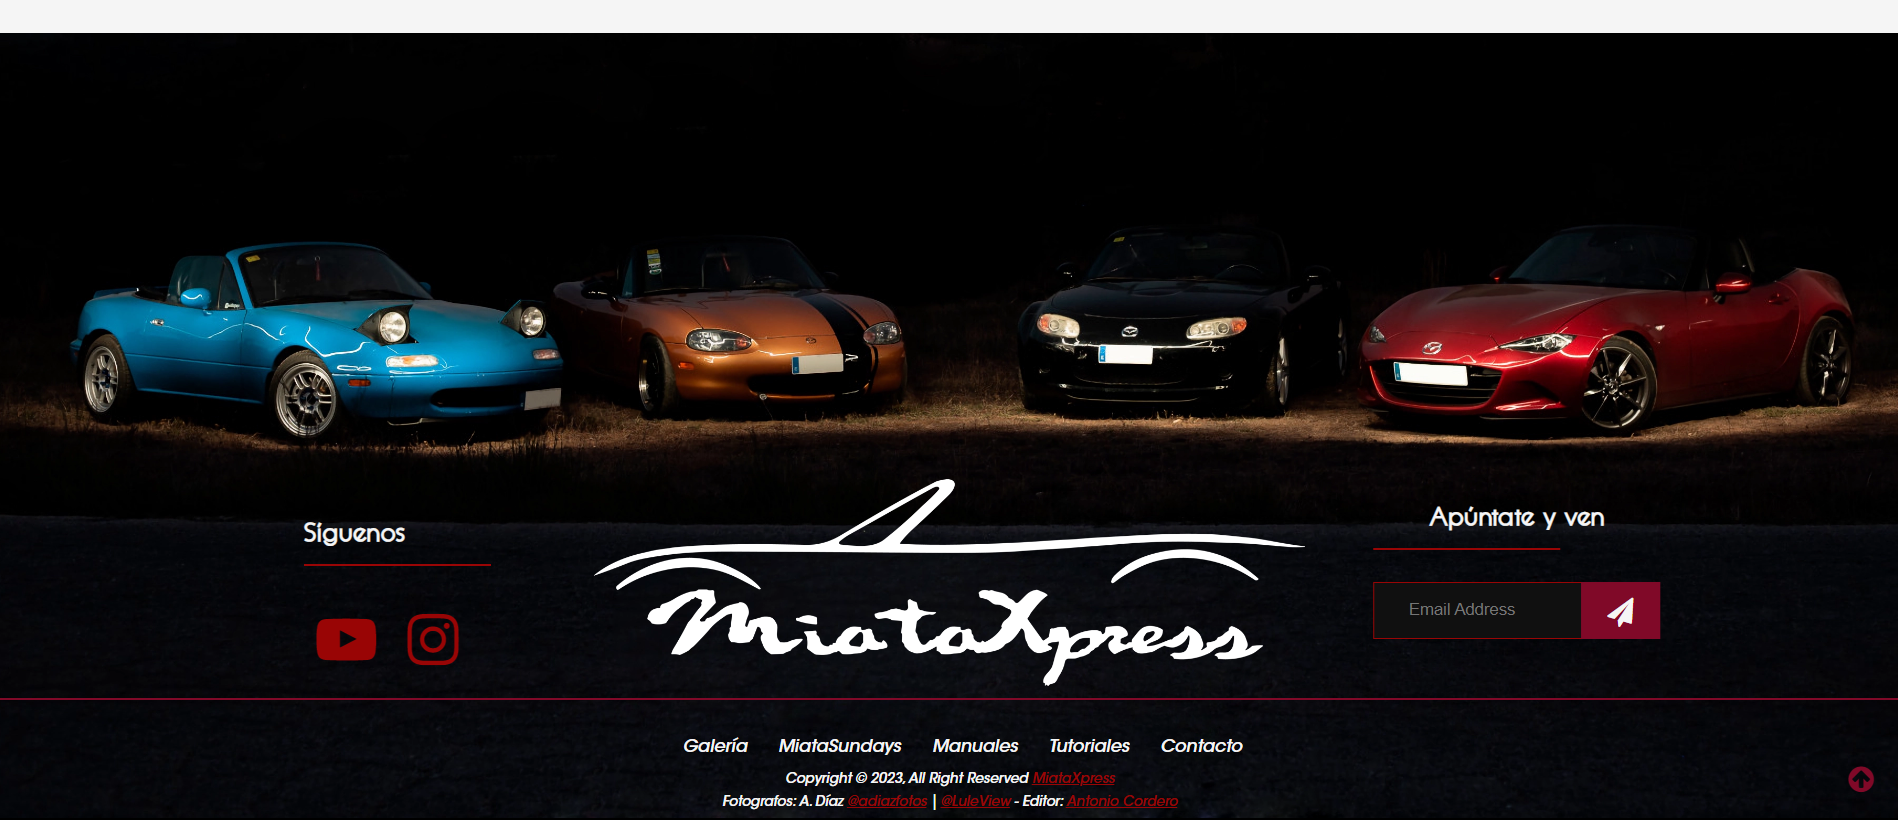
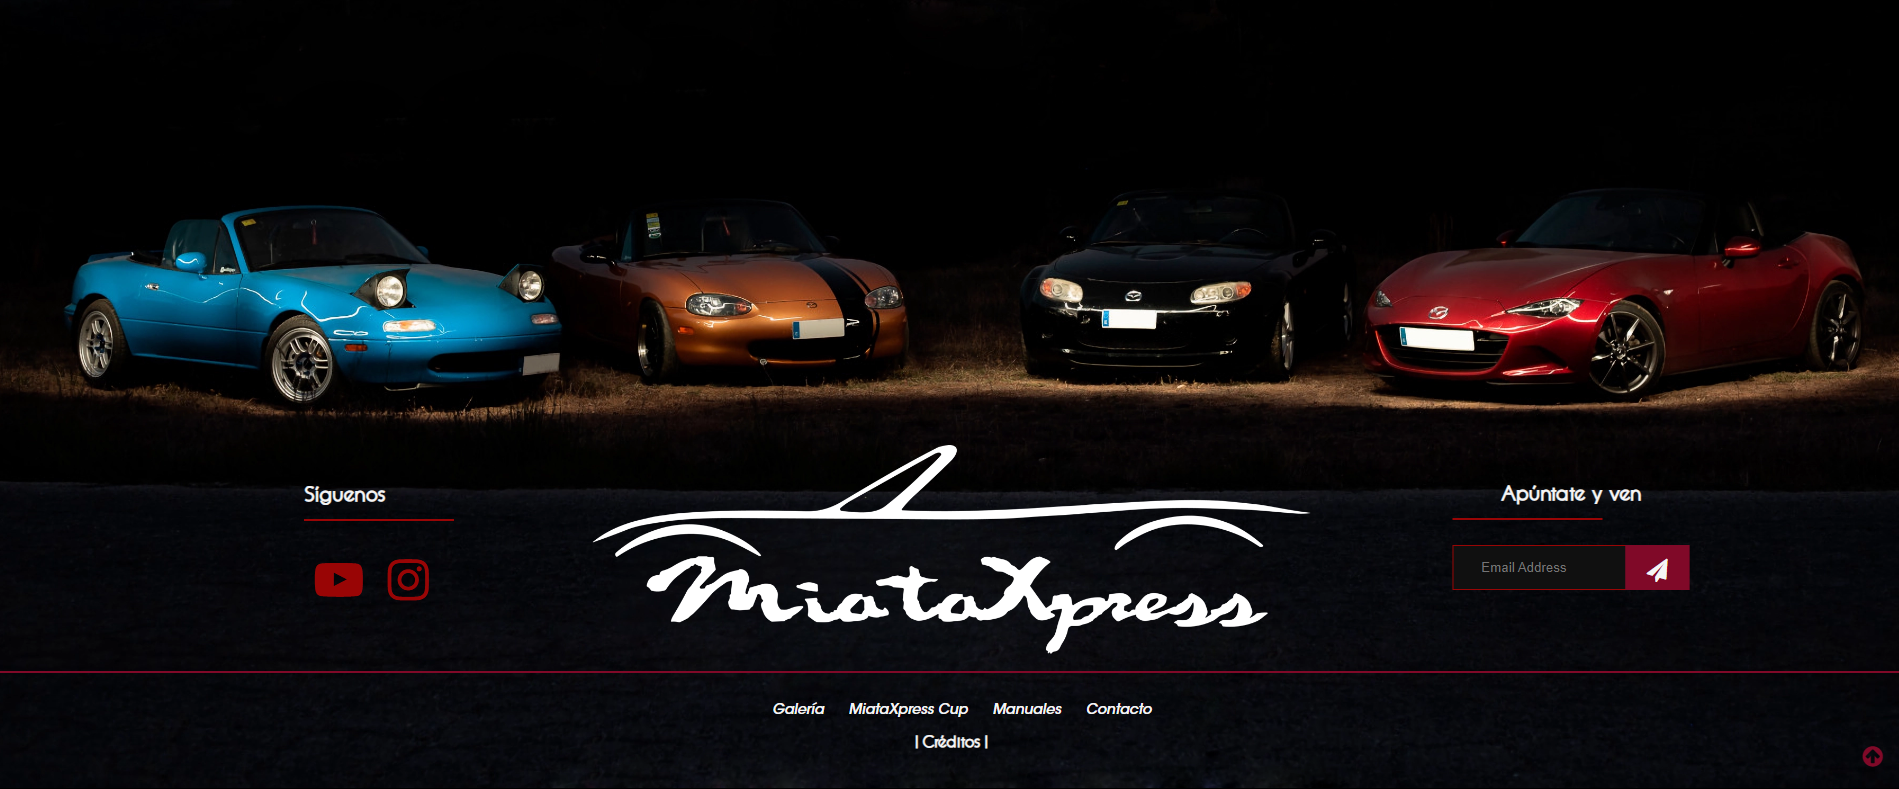
Minor bugs fixed - FINISHED 15/12/23

diff --git a/css/miataxpress.css b/css/miataxpress.css
@@ -489,7 +489,8 @@ transition: background-color 0.6s ease;
 
 #cup .container {
     position: relative;
-    width: 100%; 
+    width: 100%;
+    margin-left: 0%; 
 }
 
 #cup .image {
@@ -583,6 +584,7 @@ transition: background-color 0.6s ease;
 #guides .container {
     position: relative;
     width: 100%; 
+    margin-left: 0%;
 }
 
 #guides .image {
@@ -591,7 +593,7 @@ transition: background-color 0.6s ease;
     margin: auto;
 }
   
-.middle {
+.middle-guides {
     position: absolute;
     top: 0;
     bottom: 0;
@@ -944,8 +946,6 @@ transition: background-color 0.6s ease;
     cursor:pointer;
     color: #f5f5f5;
     font-family: titles;
-    border-left: 2px solid #f5f5f5;
-    border-right: 2px solid #f5f5f5;
   }
   
   /* Modal Content/Box */
@@ -1425,8 +1425,6 @@ a.site-name {
         cursor:pointer;
         color: #f5f5f5;
         font-family: titles;
-        border-left: 2px solid #f5f5f5;
-        border-right: 2px solid #f5f5f5;
     }
     
     /* Modal Content/Box */

diff --git a/miataxpress.html b/miataxpress.html
@@ -276,7 +276,7 @@
                 
                     <!-- Modal Box from W3Schools -->
                     <!-- Trigger/Open The Modal -->
-                    <h3 id="myBtn">Créditos</h3>
+                    <h3 id="myBtn">| Créditos |</h3>
 
                     <!-- The Modal -->
                     <div id="myModal" class="modal">
